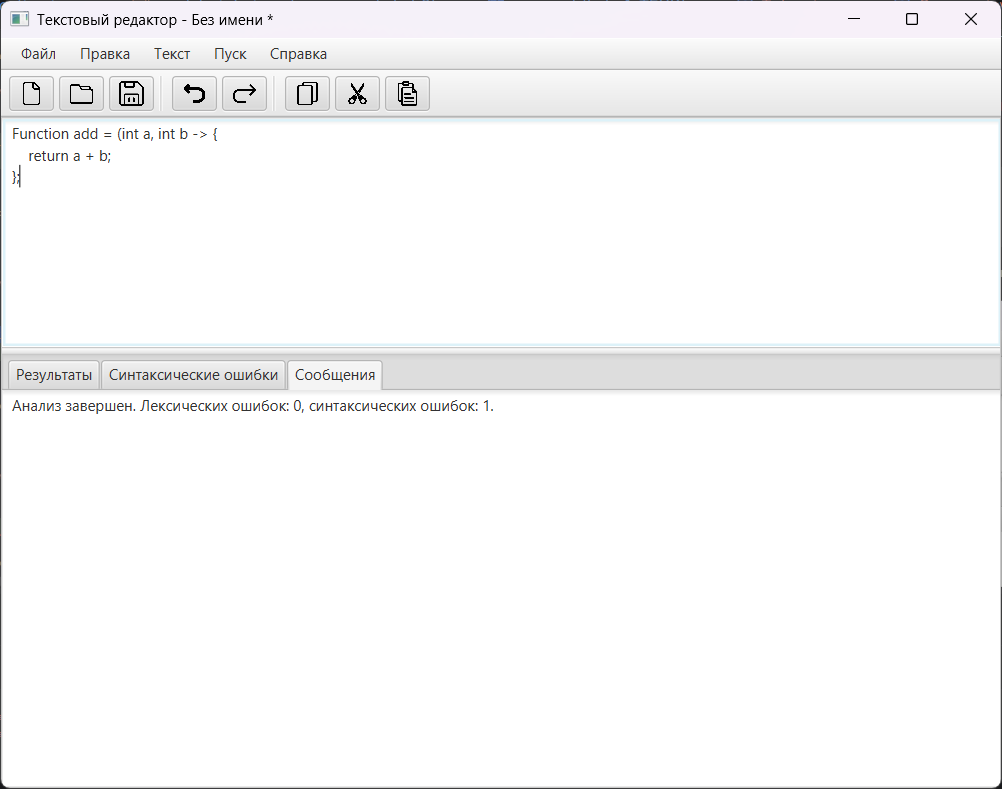
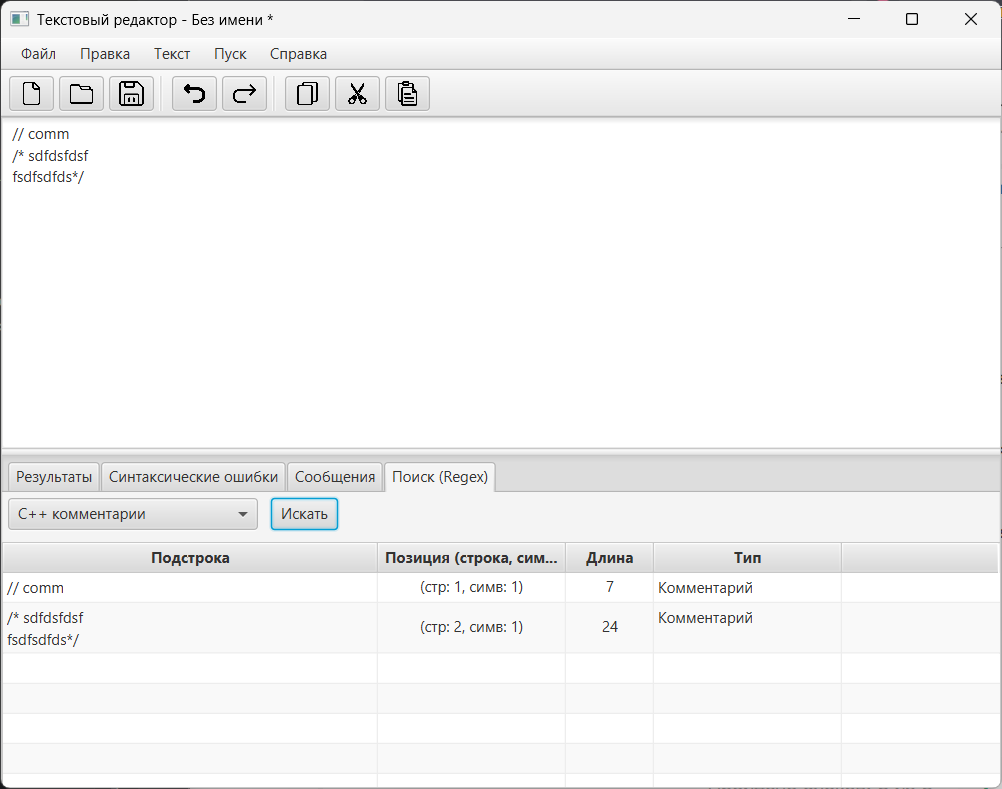
Вроде готово

diff --git a/src/main/java/org/example/Lab2/HelloController.java b/src/main/java/org/example/Lab2/HelloController.java
@@ -122,7 +122,8 @@ public class HelloController {
         searchTypeComboBox.setItems(FXCollections.observableArrayList(
             "Пользовательские логины",
             "C++ комментарии",
-            "12-часовой формат времени"
+            "12-часовой формат времени",
+            "C++ комментарии (Автомат)"
         ));
         
         searchSubstringCol.setCellValueFactory(new PropertyValueFactory<>("substring"));
@@ -451,30 +452,67 @@ public class HelloController {
         }
 
         searchResultData.clear();
-        Pattern pattern = (flags == 0) ? Pattern.compile(regex) : Pattern.compile(regex, flags);
-        Matcher matcher = pattern.matcher(text);
+        
+        if (selectedType.equals("C++ комментарии (Автомат)")) {
+            int state = 0;
+            int startIdx = -1;
+            int len = text.length();
 
-        while (matcher.find()) {
-            String matchStr = matcher.group();
-            int start = matcher.start();
-            int len = matcher.end() - matcher.start();
-            
-            int line = 1;
-            int col = 1;
-            for (int i = 0; i < start; i++) {
-                if (text.charAt(i) == '\n') {
-                    line++;
-                    col = 1;
-                } else {
-                    col++;
+            for (int i = 0; i < len; i++) {
+                char c = text.charAt(i);
+                switch (state) {
+                    case 0:
+                        if (c == '/') {
+                            state = 1;
+                            startIdx = i;
+                        }
+                        break;
+                    case 1:
+                        if (c == '/') {
+                            state = 2;
+                        } else if (c == '*') {
+                            state = 3;
+                        } else {
+                            i = startIdx;
+                            state = 0;
+                        }
+                        break;
+                    case 2:
+                        if (c == '\n' || i == len - 1) {
+                            int endIdx = (c == '\n') ? i : i + 1;
+                            String matchStr = text.substring(startIdx, endIdx);
+                            addSearchResult(matchStr, startIdx, endIdx - startIdx, "Комментарий (DFA)", text);
+                            state = 0;
+                        }
+                        break;
+                    case 3:
+                        if (c == '*') {
+                            state = 4;
+                        }
+                        break;
+                    case 4:
+                        if (c == '/') {
+                            int endIdx = i + 1;
+                            String matchStr = text.substring(startIdx, endIdx);
+                            addSearchResult(matchStr, startIdx, endIdx - startIdx, "Комментарий (DFA)", text);
+                            state = 0;
+                        } else if (c != '*') {
+                            state = 3;
+                        }
+                        break;
                 }
             }
-            String loc = "(стр: " + line + ", симв: " + col + ")";
-            
-            // Фильтр для логина: не должен начинаться с цифры. Мы используем паттерн:
-            // [a-zA-Z_.-] - первый символ, дальше [a-zA-Z0-9_.-]*, так что цифра в начале исключена паттерном.
-            
-            searchResultData.add(new SearchResult(matchStr, start, len, typeDesc, loc));
+        } else {
+            Pattern pattern = (flags == 0) ? Pattern.compile(regex) : Pattern.compile(regex, flags);
+            Matcher matcher = pattern.matcher(text);
+
+            while (matcher.find()) {
+                String matchStr = matcher.group();
+                int start = matcher.start();
+                int len = matcher.end() - matcher.start();
+                
+                addSearchResult(matchStr, start, len, typeDesc, text);
+            }
         }
 
         if (searchResultData.isEmpty()) {
@@ -482,6 +520,21 @@ public class HelloController {
         } else {
             textArea2.setText("Найдено совпадений: " + searchResultData.size() + " (" + selectedType + ")");
         }
+    }
+
+    private void addSearchResult(String matchStr, int start, int len, String typeDesc, String text) {
+        int line = 1;
+        int col = 1;
+        for (int i = 0; i < start; i++) {
+            if (text.charAt(i) == '\n') {
+                line++;
+                col = 1;
+            } else {
+                col++;
+            }
+        }
+        String loc = "(стр: " + line + ", симв: " + col + ")";
+        searchResultData.add(new SearchResult(matchStr, start, len, typeDesc, loc));
     }
 
     @FXML

diff --git a/README.md b/README.md
@@ -1,11 +1,16 @@
 # Лабораторная работа №4: Реализация алгоритма поиска подстрок с помощью регулярных выражений
 
-**Автор:** Рза (вставьте свою группу)
+**Автор:** Гусейнов Рза Анар Оглы
+**Группа:** АВТ-314
 
 ## Постановка задачи
-Разработать модуль поиска подстрок с использованием регулярных выражений, интегрировать его в существующий интерфейс текстового редактора (ЛР1) и обеспечить наглядный вывод результатов.
+Разработать модуль поиска подстрок с использованием регулярных выражений, 
+интегрировать его в существующее приложение (текстовый редактор) и обеспечить 
+наглядный вывод результатов.
 
-**Индивидуальный вариант - список из 3 задач на поиск подстрок:**
+Студент получает индивидуальный вариант, содержащий 3 задачи на поиск подстрок определенных форматов.
+
+**Индивидуальный вариант - список из 3 задач:**
 1. Пользовательские логины (алфавитно-цифровая строка со специальными символами, но не начинающаяся с цифры).
 2. Закомментированные участки кода в C++-стиле (как однострочные `//...`, так и многострочные `/*...*/`).
 3. Строки формата времени `HH:MM PM` или `HH:MM AM` в 12-часовом формате.
@@ -38,7 +43,7 @@
 
 **Регулярное выражение в коде:** 
 `(?s)(//[^\n]*)|(/\*.*?\*/)` 
-*(Примечание: в Java используется флаг `Pattern.DOTALL`, что эквивалентно логике модификатора `(?s)`)*
+
 
 **Пояснение обозначений:**
 * `//[^\n]*` — находит две косые черты `//`, за которыми следует любой символ кроме перевода строки `[^\n]` в количестве от нуля и более раз `*`;
@@ -80,22 +85,16 @@
 ---
 
 ## Тестовые примеры (Скриншоты)
-Ниже представлены скриншоты работы программы с демонстрацией табличного вывода: позиции (строка, символ), длины, подсветки выделенного элемента и количества совпадений.
-
-*(Вставьте актуальные скриншоты ниже)*
+Ниже представлены скриншоты работы программы с демонстрацией табличного вывода: 
+позиции (строка, символ), длины, подсветки выделенного элемента и количества 
+совпадений.
 
 1. Тестирование логинов:  
-<img src="path/to/screenshot1.png" alt="Скриншот Логины" width="600" />
+![img.png](img.png)
 
 2. Тестирование комментариев:  
-<img src="path/to/screenshot2.png" alt="Скриншот Комментарии" width="600" />
+![img_1.png](img_1.png)
 
 3. Тестирование времени:  
-<img src="path/to/screenshot3.png" alt="Скриншот Время" width="600" />
+![img_2.png](img_2.png)
 
----
-
-## Вариант с графом автомата (Дополнительное задание)
-*(Если было выбрано дополнительное задание (алгоритм поиска по графу автомата), вставьте ниже граф и примеры для второй или третьей подзадачи)*
-
-<img src="path/to/your/graph.png" alt="Граф автомата" width="400" />